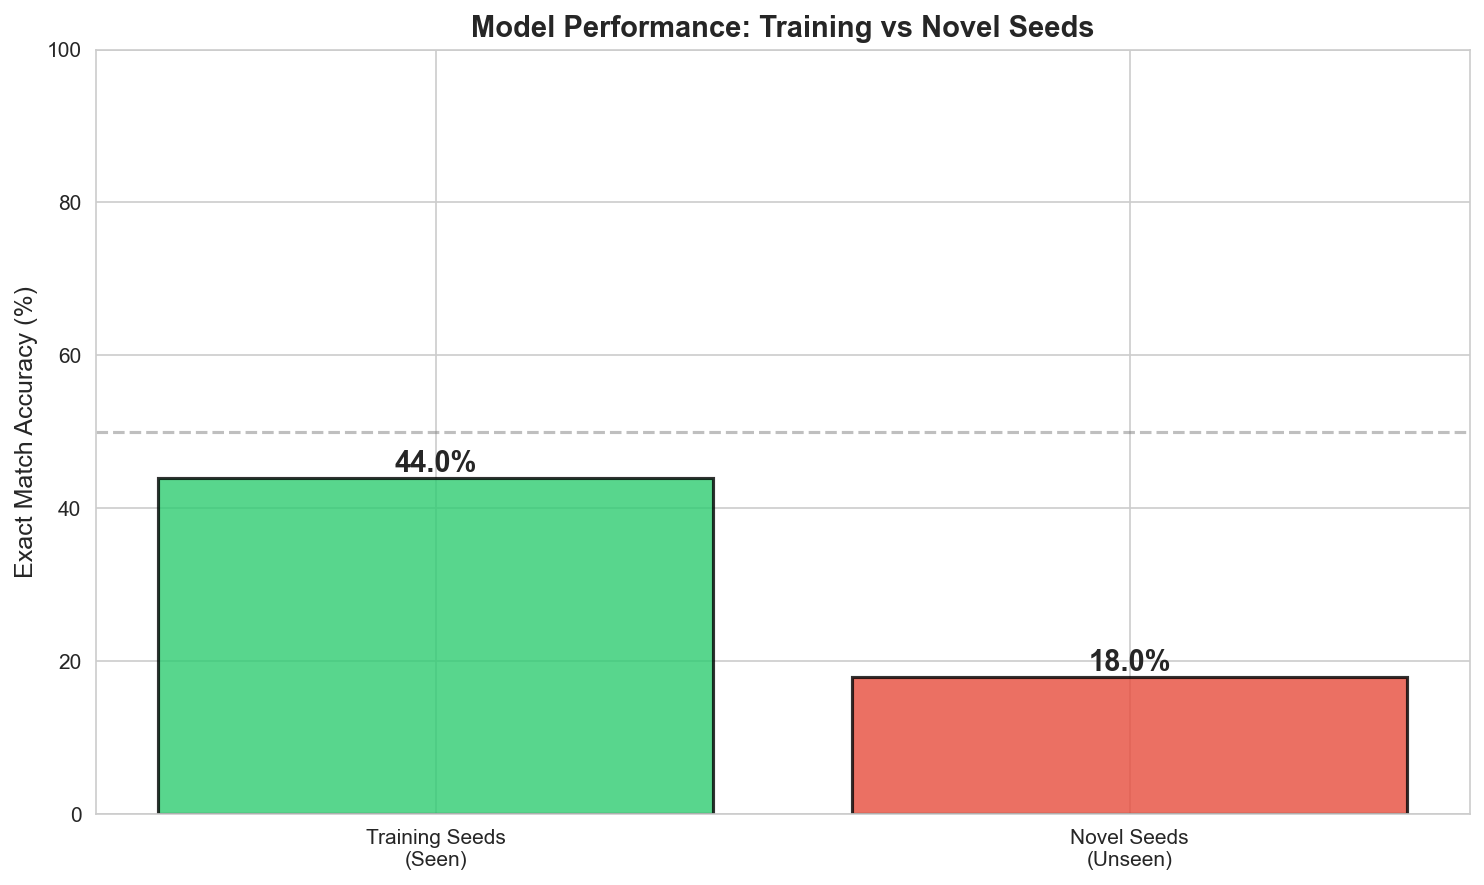
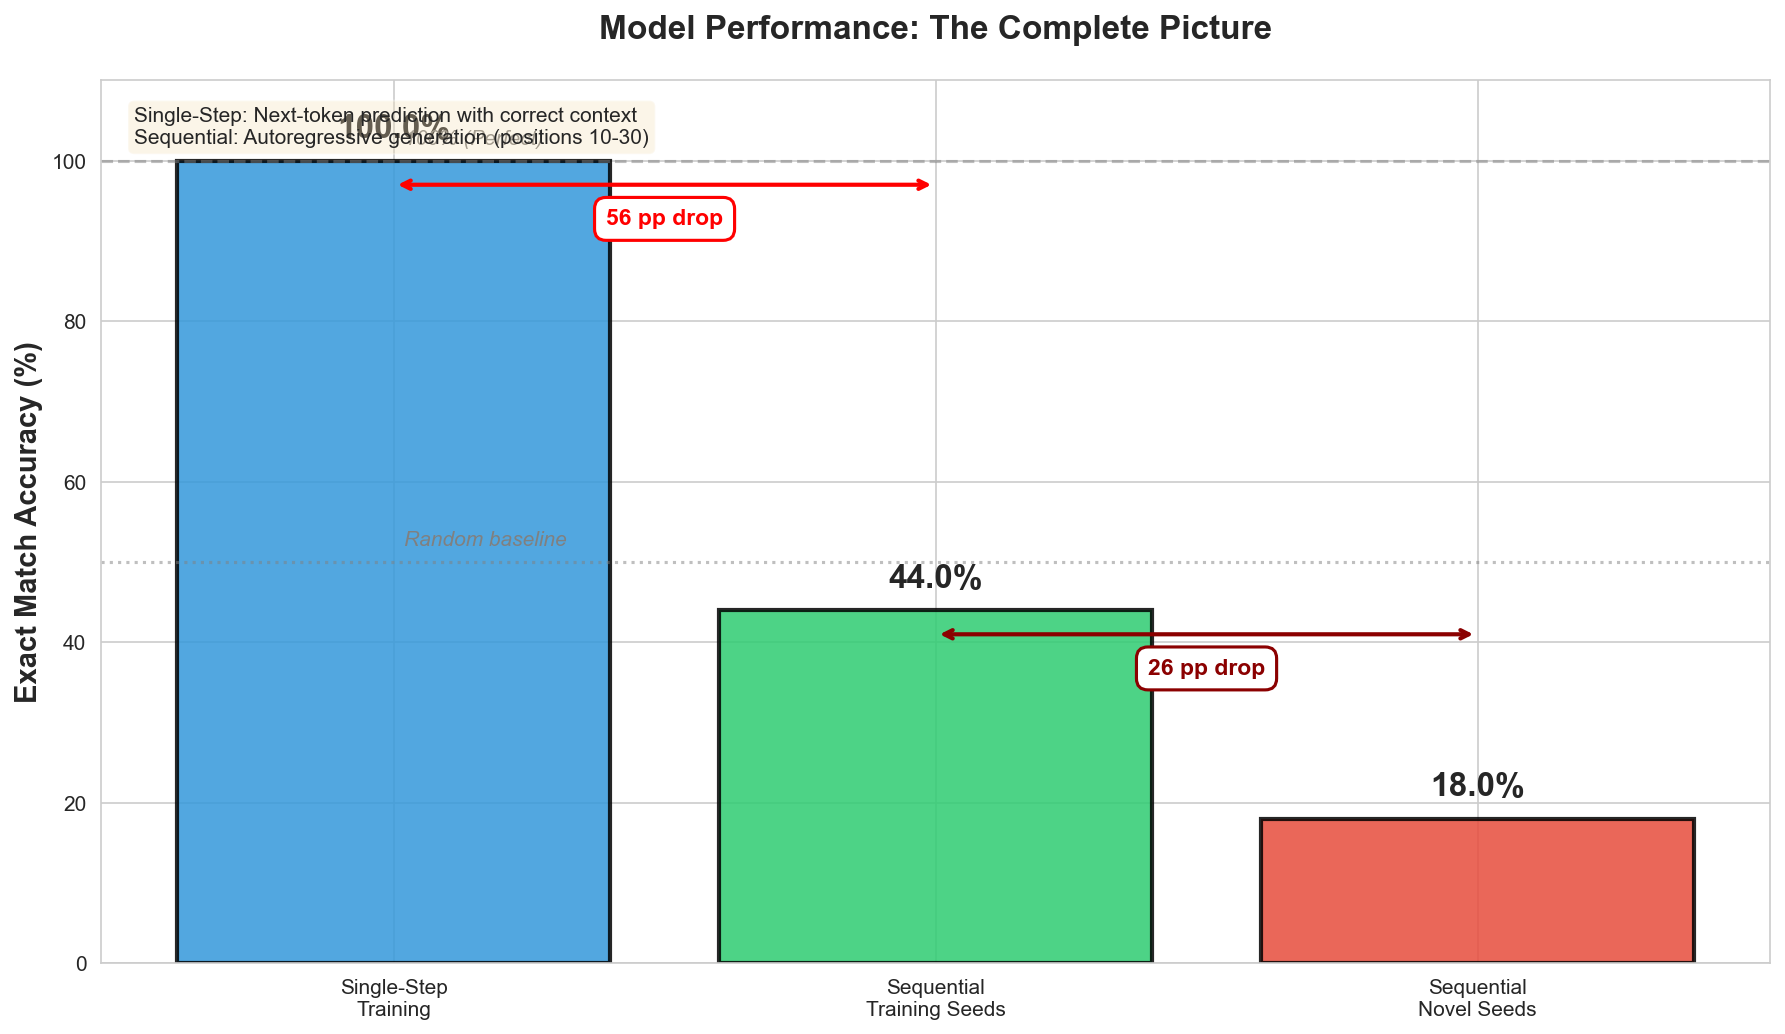
Replace accuracy comparison with comprehensive 3-bar plot
Shows the complete story:
- Single-step training: 100% (perfect memorization)
- Sequential training seeds: 44% (56pp drop - no rule learning)
- Sequential novel seeds: 18% (26pp drop - no generalization)

This addresses the critical issue that the old 2-bar plot made it look
like the model barely learned the training data (44%), obscuring the fact
that it achieved 100% single-step accuracy.

The new plot clearly demonstrates:
1. Model CAN memorize patterns (100%)
2. Model CANNOT apply rules sequentially (56pp drop)
3. Memorization doesn't generalize (additional 26pp drop)

Updated guides to reflect this is now THE KEY FIGURE.

🤖 Generated with [Claude Code](https://claude.com/claude-code)

diff --git a/create_comprehensive_accuracy_plot.py b/create_comprehensive_accuracy_plot.py
@@ -1,0 +1,86 @@
+"""
+Create comprehensive accuracy comparison showing the full story:
+1. Single-step training accuracy (100%)
+2. Sequential evaluation on training seeds (44%)
+3. Sequential evaluation on novel seeds (18%)
+"""
+import matplotlib.pyplot as plt
+import seaborn as sns
+import json
+
+sns.set_style("whitegrid")
+
+# Load data
+with open('results/evaluation_summary.json', 'r') as f:
+    eval_results = json.load(f)
+
+with open('results/training_history.json', 'r') as f:
+    train_history = json.load(f)
+
+# Get final training accuracy (single-step)
+final_train_acc = train_history['train_accuracies'][-1]
+
+# Get sequential evaluation accuracies
+seq_train_acc = eval_results['training_seeds']['average_accuracy']
+seq_novel_acc = eval_results['novel_seeds']['average_accuracy']
+
+# Create figure
+fig, ax = plt.subplots(figsize=(12, 7))
+
+categories = [
+    'Single-Step\nTraining',
+    'Sequential\nTraining Seeds',
+    'Sequential\nNovel Seeds'
+]
+accuracies = [final_train_acc, seq_train_acc, seq_novel_acc]
+colors = ['#3498db', '#2ecc71', '#e74c3c']  # Blue, Green, Red
+
+bars = ax.bar(categories, accuracies, color=colors, alpha=0.85, edgecolor='black', linewidth=2)
+
+# Add value labels on bars
+for bar, acc in zip(bars, accuracies):
+    height = bar.get_height()
+    ax.text(bar.get_x() + bar.get_width()/2., height + 2,
+            f'{acc:.1f}%',
+            ha='center', va='bottom', fontsize=16, fontweight='bold')
+
+# Add horizontal line at 100%
+ax.axhline(y=100, color='gray', linestyle='--', alpha=0.5, linewidth=1.5)
+ax.text(0.02, 102, '100% (Perfect)', fontsize=10, color='gray', style='italic')
+
+# Add horizontal line at 50% (random baseline)
+ax.axhline(y=50, color='gray', linestyle=':', alpha=0.5, linewidth=1.5)
+ax.text(0.02, 52, 'Random baseline', fontsize=10, color='gray', style='italic')
+
+# Labels and title
+ax.set_ylabel('Exact Match Accuracy (%)', fontsize=14, fontweight='bold')
+ax.set_title('Model Performance: The Complete Picture', fontsize=16, fontweight='bold', pad=20)
+ax.set_ylim(0, 110)
+
+# Add annotations
+ax.annotate('', xy=(0, 97), xytext=(1, 97),
+            arrowprops=dict(arrowstyle='<->', lw=2, color='red'))
+ax.text(0.5, 92, '56 pp drop', ha='center', fontsize=11,
+        color='red', fontweight='bold',
+        bbox=dict(boxstyle='round,pad=0.5', facecolor='white', edgecolor='red', linewidth=1.5))
+
+ax.annotate('', xy=(1, 41), xytext=(2, 41),
+            arrowprops=dict(arrowstyle='<->', lw=2, color='darkred'))
+ax.text(1.5, 36, '26 pp drop', ha='center', fontsize=11,
+        color='darkred', fontweight='bold',
+        bbox=dict(boxstyle='round,pad=0.5', facecolor='white', edgecolor='darkred', linewidth=1.5))
+
+# Add text box explaining
+textstr = ('Single-Step: Next-token prediction with correct context\n'
+           'Sequential: Autoregressive generation (positions 10-30)')
+props = dict(boxstyle='round', facecolor='wheat', alpha=0.3)
+ax.text(0.02, 0.97, textstr, transform=ax.transAxes, fontsize=10,
+        verticalalignment='top', bbox=props)
+
+plt.tight_layout()
+plt.savefig('visualizations/comprehensive_accuracy.png', dpi=150, bbox_inches='tight')
+print("✓ Created comprehensive_accuracy.png")
+print(f"\nShowing:")
+print(f"  Single-step training: {final_train_acc:.1f}%")
+print(f"  Sequential training:  {seq_train_acc:.1f}%")
+print(f"  Sequential novel:     {seq_novel_acc:.1f}%")

diff --git a/FIGURES_GUIDE.md b/FIGURES_GUIDE.md
@@ -23,14 +23,16 @@
 ## Figure Descriptions
 
 ### Figure 1: Accuracy Comparison (accuracy_comparison.png)
-**Evaluation Method**: Sequential/Autoregressive (Method 2)
+**Evaluation Methods**: Single-Step (Method 1) + Sequential/Autoregressive (Method 2)
 
 **What it shows**:
-- Training Seeds: 44.0% exact match accuracy
-- Novel Seeds: 18.0% exact match accuracy
-- 26 percentage point degradation
+- **Single-Step Training**: 100.0% exact match accuracy
+- **Sequential Training Seeds**: 44.0% exact match accuracy
+- **Sequential Novel Seeds**: 18.0% exact match accuracy
+- **56 percentage point drop** from single-step to sequential (on training data)
+- **26 percentage point drop** from training to novel seeds (sequential)
 
-**Key Takeaway**: Model fails to generalize to novel seeds even when using the same Fibonacci rule. This is the PRIMARY evidence that the model didn't learn the underlying recurrence relation.
+**Key Takeaway**: This is THE KEY FIGURE showing the complete story. The model achieves perfect single-step accuracy (memorization works) but fails dramatically at sequential generation (56pp drop), proving it didn't learn the underlying rule. The additional 26pp drop on novel seeds shows the memorization doesn't generalize. This is the PRIMARY evidence that the model didn't learn the F(n) = F(n-1) + F(n-2) rule.
 
 **File**: `visualizations/accuracy_comparison.png`
 

diff --git a/SHARE_WITH_AI.md b/SHARE_WITH_AI.md
@@ -63,8 +63,11 @@ The model can memorize local patterns (100% single-step) but cannot generate coh
 
 ### Figures Tell the Story
 
-- **Figure 1** (accuracy_comparison.png): The headline result - massive degradation
-- **Figures 2-6**: Different perspectives on the same failure
+- **Figure 1** (accuracy_comparison.png): THE KEY FIGURE - Shows complete story: 100% → 44% → 18%
+  - Perfect single-step (memorization works)
+  - 56pp drop to sequential (no rule learning)
+  - 26pp drop on novel seeds (no generalization)
+- **Figures 2-6**: Different perspectives on sequential evaluation failure
 - **Figure 7** (probing_results.png): The mechanistic explanation for WHY
 
 ### Additional Context Available
